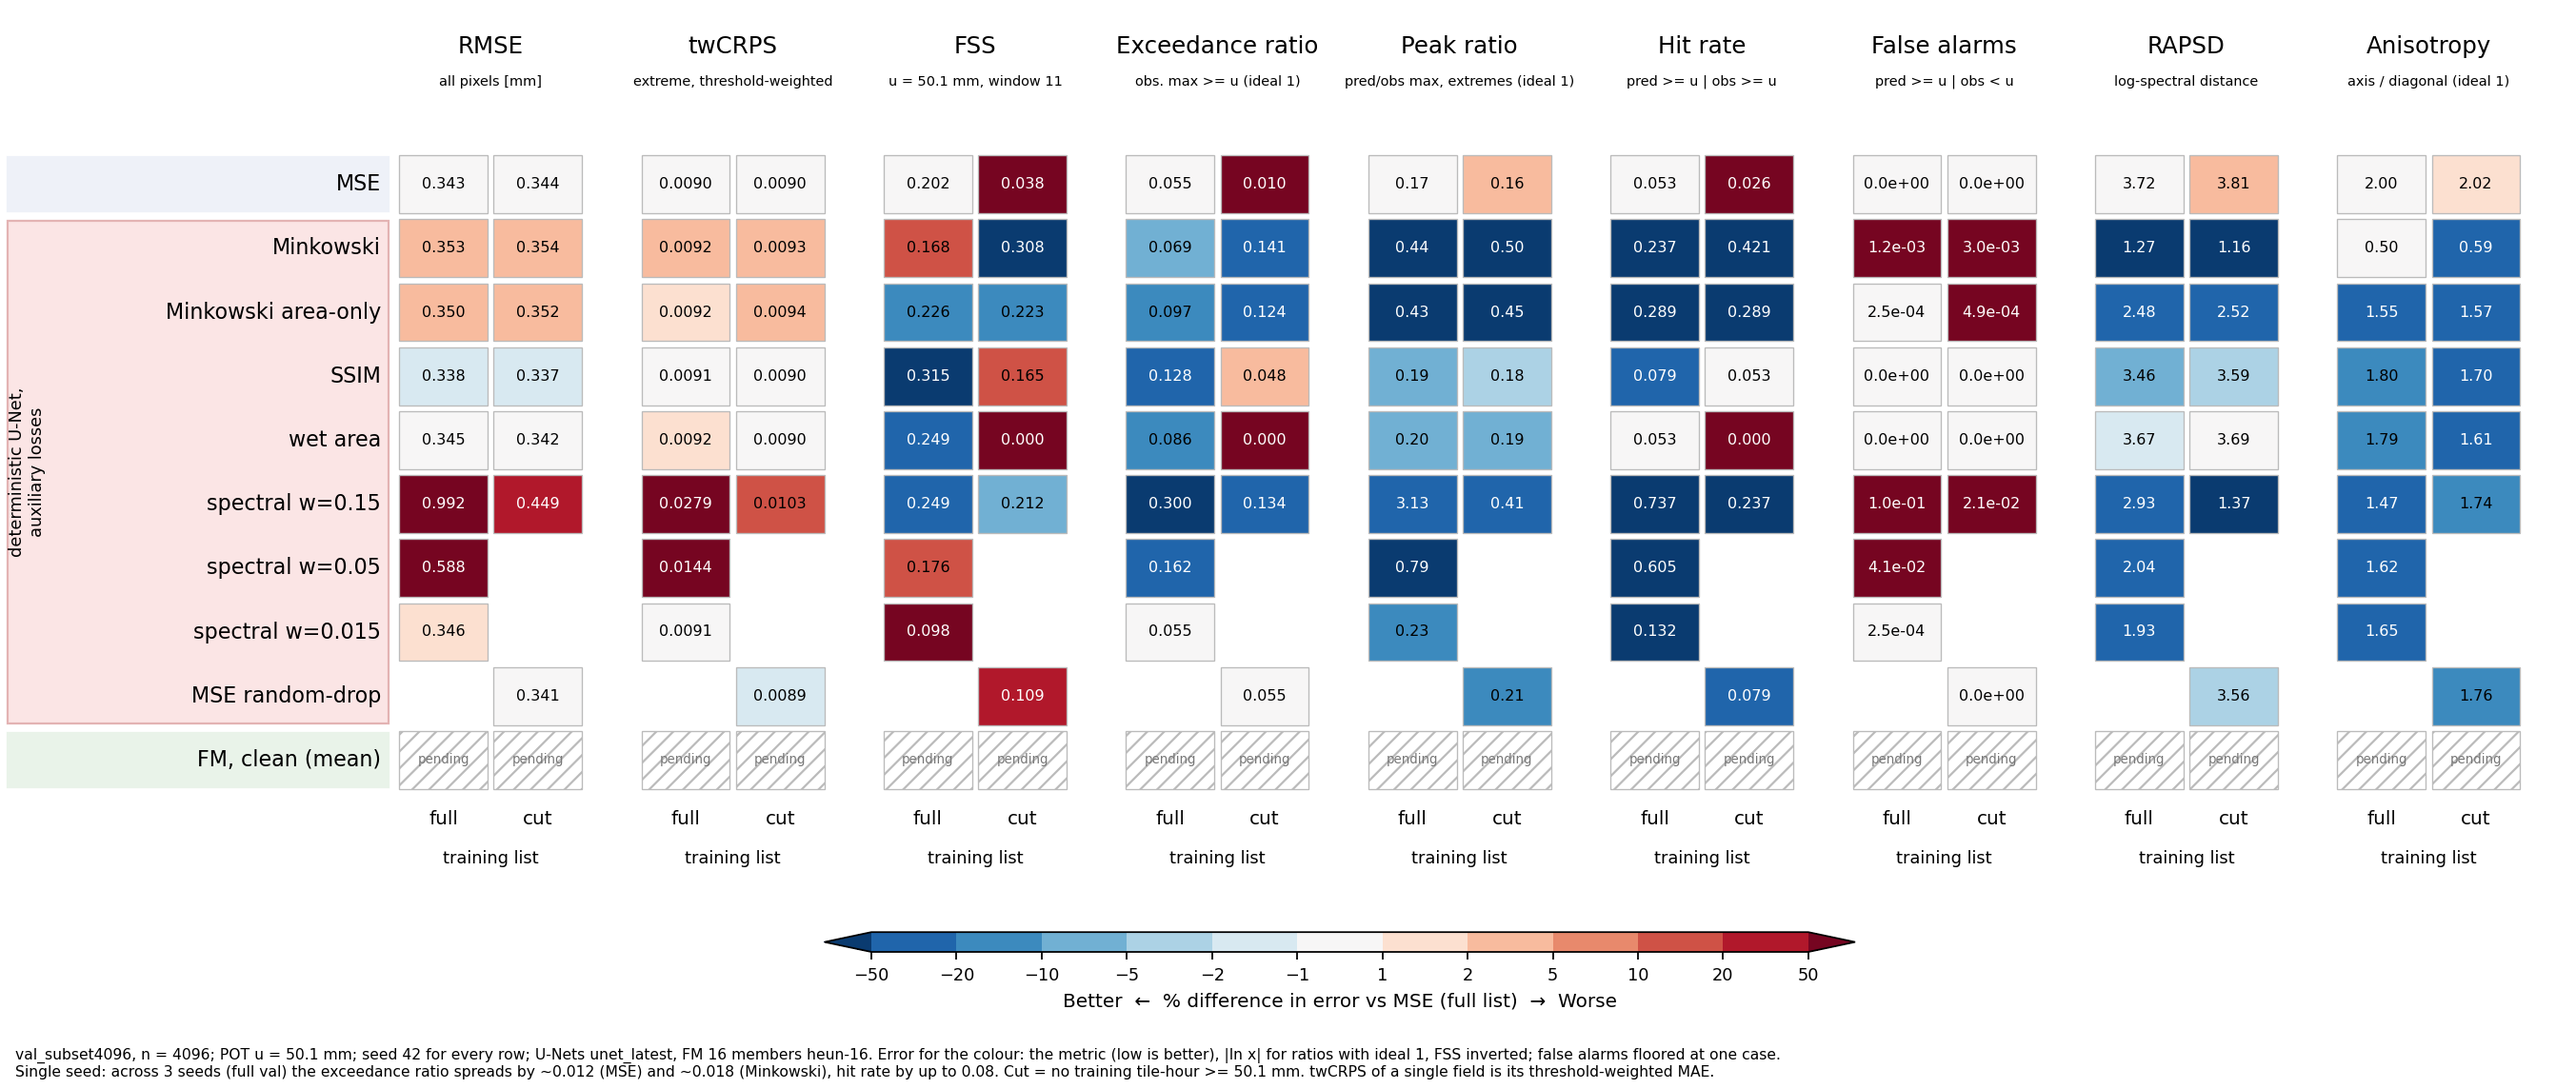
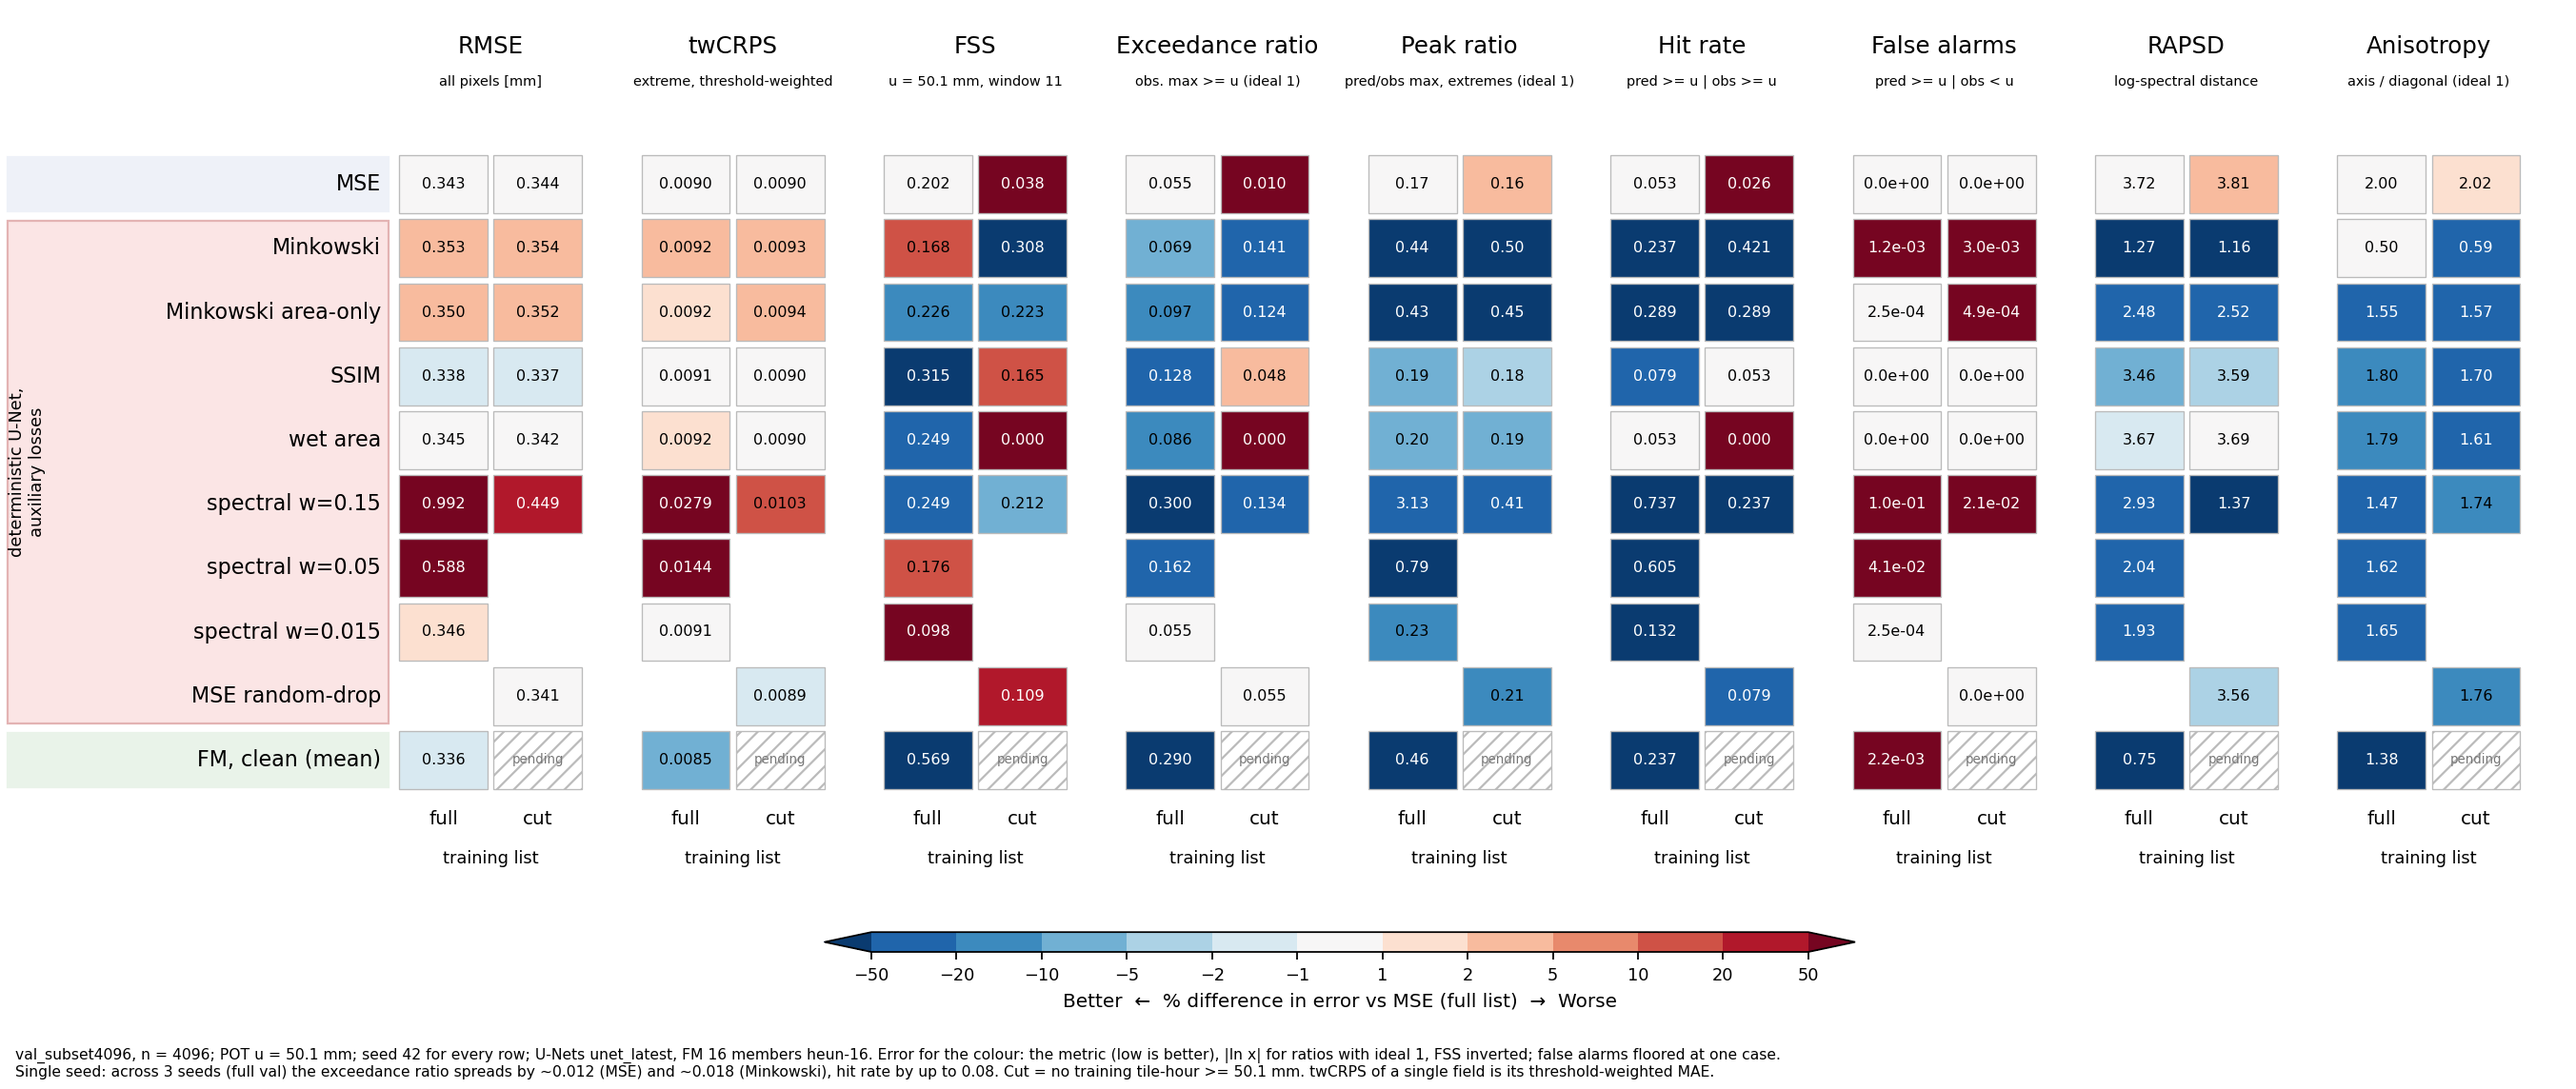
R4 scorecard val_subset4096 with the clean FM row (38 extreme cases: tail columns in steps of ~0.026)

diff --git a/figures/r4_scorecard/valsub.md b/figures/r4_scorecard/valsub.md
@@ -11,4 +11,4 @@
 | spectral w=0.05 | 0.588 |  | 0.0144 |  | 0.176 |  | 0.162 |  | 0.79 |  | 0.605 |  | 4.1e-02 |  | 2.04 |  | 1.62 |  |
 | spectral w=0.015 | 0.346 |  | 0.0091 |  | 0.098 |  | 0.055 |  | 0.23 |  | 0.132 |  | 2.5e-04 |  | 1.93 |  | 1.65 |  |
 | MSE random-drop |  | 0.341 |  | 0.0089 |  | 0.109 |  | 0.055 |  | 0.21 |  | 0.079 |  | 0.0e+00 |  | 3.56 |  | 1.76 |
-| FM, clean (mean) | pending | pending | pending | pending | pending | pending | pending | pending | pending | pending | pending | pending | pending | pending | pending | pending | pending | pending |
+| FM, clean (mean) | 0.336 | pending | 0.0085 | pending | 0.569 | pending | 0.290 | pending | 0.46 | pending | 0.237 | pending | 2.2e-03 | pending | 0.75 | pending | 1.38 | pending |
